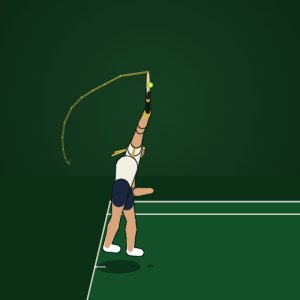
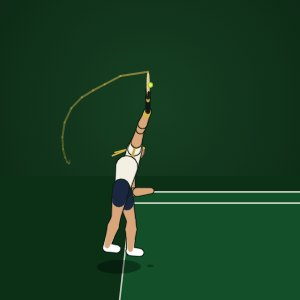
Sharpen serve: the lesson's captured toss, and a legal court (baseline in front of the feet)

Changed region(s): [[0.45, 0.63, 1.0, 0.72], [0.27, 0.66, 0.42, 1.0]]

diff --git a/app/catalog.js b/app/catalog.js
@@ -1,2 +1,2 @@
 window.GS_CATALOG={"daily":[{"slug":"serve-plus-one","title":"The Serve Writes the Next Question","line":"Read the reply your serve creates, then use the space.","sit":"Your wide serves have pulled this returner off the court twice. Watch both returns.","clips":["bh","fh","fhhi","fvhi","lowfv","ready","serveW"],"flavour":"tactics"},{"slug":"short-ball","title":"The Short Ball Is Not Permission","line":"Short isn't enough. Height, balance and their position earn the attack.","sit":"Their slice lands short and stays low. You come forward to it; they're still deep.","clips":["bh","bhlo","bv","fh","fhhi","fhlo","fvhi","ready"],"flavour":"tactics"},{"slug":"the-line","title":"The Line Must Be Earned","line":"The open line is tempting. When is it actually on?","sit":"The line is open, but their low crosscourt pulls you wide, and you're late.","clips":["bh","bhlo","fh","fhhi","ready"],"flavour":"tactics"},{"slug":"the-winner","title":"The Winner Can Be the Wrong Shot","line":"One winner proves little. See the same shot hit ten times.","sit":"Off a low, neutral ball, you go down the line and clip the paint. Winner.","clips":["bh","bhlo","fh","fhhi","fhlo","ready"],"flavour":"tactics"},{"slug":"recovery","title":"The Centre Is Not the Plan","line":"Where you recover decides whether you reach their reply.","sit":"Your deep crosscourt pushes them outside the sideline. You finish balanced.","clips":["bh","bhlo","fh","fhhi","ready"],"flavour":"tactics"},{"slug":"open-court","title":"The Open Court Is Not Always Open","line":"Play the defender’s movement, not the empty space.","sit":"You have a comfortable short forehand. Watch where the defender is running before you choose.","clips":["bh","bhlo","fh","fhlo","ready"],"flavour":"tactics"},{"slug":"forehand-bill","title":"Your Forehand Leaves a Bill","line":"A run-around forehand has to pay for the way back.","sit":"A deep ball to your backhand. They're balanced and could go either way.","clips":["bh","fh","fhhi","fhlo","ready"],"flavour":"tactics"},{"slug":"the-lead","title":"The Lead That Makes You Smaller","line":"Ahead? Keep the depth that built the lead.","sit":"You lead 5–2. Your rally ball has started landing shorter.","clips":["bh","bhlo","fh","fhhi","ready"],"flavour":"tactics"},{"slug":"split-step","title":"A Perfect Split Step Can Be Late","line":"Land for their hit, not before it.","sit":"You reach your spot. Watch the split step and your first move.","clips":["bhlo","fh","ready"],"flavour":"net"},{"slug":"approach-volley","title":"Your Approach Shapes Your First Volley","line":"A deep approach builds an easy volley.","sit":"You're balanced on a short forehand. Their recovery leaves the line open.","clips":["bh","bv","fh","lowfv","ready"],"flavour":"net"},{"slug":"middle-return","title":"The Return That Shrinks Serve +1","line":"Deep through the middle takes the server’s weapon away.","sit":"A big first serve pulls you wide. The server stays back for their next ball.","clips":["bh","bhlo","fh","fhhi","ready","serveT","serveW"],"flavour":"tactics"},{"slug":"high-ball","title":"One High Ball. Two Opposite Answers.","line":"Find the contact, not the height.","sit":"A slower, high ball lands short. You're balanced, with time to move.","clips":["bh","bhlo","fh","fhChest","fhHigh","fhHigher","fhhi","ready"],"flavour":"tactics"},{"slug":"second-serve","title":"The Safe Second Serve Trap","line":"In is only the beginning.","sit":"Both second serves go in. Watch where the receiver meets each one.","clips":["bhChest","bhHigh","bhHigher","bhlo","fh","fhHigh","fhHigher","fhhi","ready","serveB","serveW"],"flavour":"tactics"},{"slug":"contact-clue","title":"Two Misses. One Clue.","line":"Check the space at contact first.","sit":"Your forehand goes into the net. Watch it again, held at the moment you hit it.","clips":["fh","fhCramped","ready"],"flavour":"technique"},{"slug":"running-around","title":"Running Around Is Not Hiding","line":"Earn the forehand. Cover its cost.","sit":"Your slice has bought time. Your forehand is your stronger shot.","clips":["bh","bhSlice","bhlo","fh","fhCramped","fhhi","fhlo","ready"],"flavour":"tactics"},{"slug":"net-rusher","title":"Net Rusher: Feet or Over Them","line":"They come in. Where they stop decides: at their feet, or over them.","sit":"They approach and come in. They stop just inside the service line as you hit.","clips":["bh","bv","fh","fhhi","fvhi","lowfv","ready","sm"],"flavour":"opponents"},{"slug":"pass-where-they-arent","title":"Pass Where They Aren't","line":"At the net they cover one side. Pass the side they left.","sit":"They approach and close in, shading toward your down-the-line side.","clips":["bh","bv","fh","fvhi","ready"],"flavour":"net"},{"slug":"late-is-the-culprit","title":"Late Is the Culprit","line":"Same miss, same side? It tells you when you hit it.","sit":"You aim crosscourt, but your forehand flies wide to the right. Watch it again, held at contact.","clips":["bh","fh","ready"],"flavour":"technique"},{"slug":"the-moonballer","title":"The Moonballer: Take Their Time","line":"They loop it high and deep. Take their time, then take the net.","sit":"Another high, heavy ball comes to your forehand. At the baseline it will kick above your shoulder.","clips":["bh","bhlo","fh","fhChest","fhHigher","fhhi","ready","sm"],"flavour":"opponents"},{"slug":"the-pusher","title":"The Pusher: Change the Game","line":"They get everything back. Stop out-waiting them: change the game.","sit":"They're 2 m behind their baseline, looping everything back. This one lands short enough to step in on.","clips":["bhlo","bv","drop","fh","fvhi","lowfv","ready"],"flavour":"opponents"},{"slug":"pulled-wide","title":"Pulled Wide? Buy Time First","line":"Off the court? Buy time first, unless you got there early.","sit":"Their angle pulls you off the court. You reach it low and late; they're in the middle.","clips":["bh","bhlo","fh","fhhi","fhlo","ready"],"flavour":"tactics"},{"slug":"serve-away-from-the-lean","title":"Serve Away From the Lean","line":"The returner leans to cover one serve. Serve the side they left.","sit":"First serve from the deuce side. The returner has moved toward the T to protect their backhand.","clips":["bh","bhHigh","bhHigher","bhlo","fh","fhHigh","fhHigher","fhhi","fhlo","ready","serveB","serveT","serveW"],"flavour":"tactics"},{"slug":"the-big-hitter","title":"The Big Hitter: Time for You, Not Them","line":"Their ball comes fast and heavy. Win back your time; keep it out of their zone.","sit":"They hit big. Their crosscourt forehand is coming into your backhand corner at 125 km/h.","clips":["bh","bhSlice","bhlo","fh","fhlo","ready"],"flavour":"opponents"},{"slug":"the-lefty","title":"The Lefty: Find Their Backhand","line":"Your usual patterns land on a lefty's forehand. Turn them round.","sit":"They're left-handed. You've run around your backhand to hit a forehand.","clips":["bh","bhHigh","bhSlice","bhlo","fh","fhChest","fhHigh","fhlo","ready","serveB","serveT","serveW"],"flavour":"opponents"},{"slug":"find-your-return-spot","title":"Find Your Return Spot","line":"Back for the big first serve. In for the kick second serve.","sit":"They hit a big first serve, around 185 km/h, down the T.","clips":["bh","fh","fhChest","fhHigh","ready","serveT","serveW"],"flavour":"tactics"},{"slug":"answer-the-drop","title":"Answer the Drop","line":"You got to their drop. Where they go decides your answer.","sit":"They drop-shot you and stay mid-court, where they hit it. You get there in time.","clips":["fh","fvhi","lowfv","ready"],"flavour":"net"},{"slug":"attack-the-backhand","title":"Attack the Backhand the Long Way","line":"Their backhand is weak and they know it. Move them off it first.","sit":"Their backhand is the weak side, and they've started leaning toward it before you hit.","clips":["bh","bhlo","bv","fh","fhhi","ready"],"flavour":"tactics"},{"slug":"down-the-line","title":"When to Go Down the Line","line":"The line is about where they are, not how brave you are.","sit":"Their crosscourt lands short. You step in, set, and they're still getting back to the middle.","clips":["bh","bhlo","fh","fhhi","fhlo","ready"],"flavour":"tactics"},{"slug":"rushed-out-wide","title":"Rushed Out Wide","line":"Pulled wide? The big shot lands 6 in 10. Deep through the middle lands every time.","sit":"Their crosscourt pulls you off the court on your forehand side, and you only just get there.","clips":["bh","fh","fhhi","ready"],"flavour":"tactics"}],"predict":[{"slug":"predict-the-point","title":"Predict the Point: The Wide Serve Pattern","line":"Call the serve, the +1 and the finish. Then watch your point.","sit":"30-30, deuce court. They crowd the middle to protect their backhand.","clips":["bh","bhChest","bhlo","fh","fhChest","fhhi","fhlo","ready","serveB","serveT","serveW"],"flavour":"predict"},{"slug":"predict-second-serve","title":"Predict the Point: Break Point on a Second Serve","line":"Call the return, the approach and the volley. Then watch your point.","sit":"15-40. A slow second serve sits up on your forehand. The server stays back.","clips":["bh","bhlo","bv","fh","fhhi","ready","serveT"],"flavour":"predict"}],"play":[{"slug":"saturday-point-1","title":"Saturday Point #1","line":"One point, built from five of your lessons. Each shot: the one you want to hit, or the one that wins.","sit":"30-30, deuce court. The returner stands close to the middle to protect their backhand.","clips":["bh","bhlo","fh","fhChest","fhhi","fhlo","ready","serveT","serveW"],"flavour":"play","uses":["serve-plus-one","short-ball","open-court","the-line","the-winner"]},{"slug":"saturday-point-2","title":"Saturday Point #2","line":"A return game at 5-2, built from five more of your lessons. Each shot: the tempting one, or the one that wins.","sit":"You lead 5–2. Their serve: a big first serve, wide to your forehand.","clips":["bh","bhlo","bv","fh","fhhi","ready","serveW"],"flavour":"play","uses":["middle-return","the-lead","recovery","approach-volley","split-step"]},{"slug":"saturday-point-3","title":"Saturday Point #3","line":"Your serve at 30-40, built from five more of your lessons. Each shot: the tempting one, or the one that wins.","sit":"30–40. You missed your first serve.","clips":["bh","bhChest","bhHigher","bhSlice","bhlo","fh","fhCramped","fhHigher","fhhi","fvhi","lowfv","ready","serveB"],"flavour":"play","uses":["second-serve","high-ball","running-around","contact-clue","net-rusher"]},{"slug":"saturday-point-4","title":"Saturday Point #4: The Pusher","line":"One point against a pusher, built from five more of your lessons. Each shot: the tempting one, or the one that wins.","sit":"30–15. The returner has shaded wide to cover your wide serve.","clips":["bh","bhHigher","drop","fh","fhHigher","fhhi","fhlo","ready","serveT","serveW"],"flavour":"play","uses":["serve-away-from-the-lean","forehand-bill","pulled-wide","down-the-line","the-pusher"]},{"slug":"saturday-point-5","title":"Saturday Point #5: The Big Hitter","line":"Break point against a big hitter, built from five more of your lessons. Each shot: the tempting one, or the one that wins.","sit":"30–40, break point. Their big first serve is coming down the T.","clips":["bh","bhlo","fh","fhChest","fhHigher","fhhi","fhlo","fvhi","ready","serveT"],"flavour":"play","uses":["find-your-return-spot","the-big-hitter","attack-the-backhand","the-moonballer","answer-the-drop"]},{"slug":"midweek-point-1","title":"Midweek Point #1","line":"Three shots from three of your lessons. A quick top-up between Saturdays.","sit":"15–30. Their second serve is a high, heavy kick.","clips":["bh","bhlo","fh","fhChest","fhhi","ready","serveT"],"flavour":"play","uses":["find-your-return-spot","rushed-out-wide","down-the-line"]},{"slug":"play-the-point","title":"Play the Point","line":"Three shots, your calls. Each choice decides what happens next.","sit":"","clips":["bh","bhlo","fh","fhChest","fhhi","ready","serveT","serveW"],"flavour":"play"}],"flavours":[{"key":"tactics","name":"Court tactics","lessons":["serve-plus-one","short-ball","the-line","the-winner","recovery","open-court","forehand-bill","the-lead","middle-return","high-ball","second-serve","running-around","pulled-wide","serve-away-from-the-lean","find-your-return-spot","attack-the-backhand","down-the-line","rushed-out-wide"]},{"key":"opponents","name":"Opponents","lessons":["the-moonballer","the-pusher","net-rusher","the-big-hitter","the-lefty"]},{"key":"net","name":"Net play","lessons":["approach-volley","pass-where-they-arent","split-step","answer-the-drop"]},{"key":"technique","name":"Technique","lessons":["late-is-the-culprit","contact-clue"]},{"key":"predict","name":"Predict the Point","lessons":["predict-the-point","predict-second-serve"]},{"key":"play","name":"Play the Point","lessons":["saturday-point-1","saturday-point-2","saturday-point-3","saturday-point-4","saturday-point-5","midweek-point-1","play-the-point"]}]};
-window.GS_VERSION="f00b689823";
+window.GS_VERSION="8112fd55d7";

diff --git a/app/athlete.js b/app/athlete.js
@@ -190,30 +190,28 @@ function at(c,f){
   const pose=A.map((p,k)=>lerp3(p,B[k],u)), axis=norm(lerp3(RA.axis,RB.axis,u)), lat=lerp3(RA.lateral,RB.lateral,u);
   return {pose,rq:{w:pose[I.wristR],axis,lateral:norm(sub(lat,mul(axis,dot(lat,axis)))),centre:lerp3(RA.centre,RB.centre,u)}};
 }
-/* the ball (8 Oct, Eoin: "the serve omits the visible ball in the toss"): simple flights under gravity, metres and
-   seconds, 100 frames a second.
-   Serve: in the tossing hand from the first frame, released at the hand's highest point, up and down onto the contact.
+/* the ball (8 Oct, Eoin: "the serve omits the visible ball in the toss"; "the toss should mimic the gold standard,
+   The Serve Writes the Next Question"). Metres and seconds, 100 frames a second.
+   Serve: the lesson's own toss. TOSS is the captured serve's solved toss (the serve clip's ball, frames 73 to contact:
+   released from the left hand at 1.34 m, up to 3.47 m, 1.08 s, onto the measured contact), copied from the lab clip so
+   it matches the lesson ball for ball; before release the ball is in the tossing hand.
    Groundstrokes: their ball crosses the net, bounces 4.5 m in front of you and rises to the contact.
    Volleys: met in the air. After contact the ball flies on over the net (and the serve lands in the box) until the
    swing ends, so it never vanishes while the racquet is still moving. */
-const G=9.81, GROUND=new Set(["fh","bh","slice","drop"]), REL={};
+const TOSS_FROM=73, TOSS=[[0.209,0.13,1.34],[0.207,0.133,1.406],[0.204,0.136,1.47],[0.202,0.139,1.534],[0.199,0.142,1.596],[0.197,0.145,1.657],[0.194,0.148,1.717],[0.192,0.152,1.776],[0.189,0.155,1.834],[0.187,0.158,1.891],[0.184,0.161,1.947],[0.182,0.164,2.002],[0.179,0.167,2.056],[0.177,0.17,2.109],[0.174,0.173,2.161],[0.172,0.176,2.212],[0.169,0.179,2.261],[0.167,0.183,2.31],[0.164,0.186,2.358],[0.162,0.189,2.405],[0.159,0.192,2.45],[0.157,0.195,2.495],[0.154,0.198,2.539],[0.152,0.201,2.581],[0.149,0.204,2.623],[0.147,0.207,2.663],[0.144,0.21,2.703],[0.142,0.213,2.742],[0.14,0.216,2.779],[0.137,0.219,2.816],[0.135,0.223,2.851],[0.132,0.226,2.886],[0.13,0.229,2.92],[0.127,0.232,2.952],[0.125,0.235,2.984],[0.122,0.238,3.014],[0.12,0.241,3.044],[0.117,0.244,3.072],[0.115,0.247,3.1],[0.113,0.25,3.127],[0.11,0.253,3.152],[0.108,0.256,3.177],[0.105,0.259,3.2],[0.103,0.262,3.223],[0.1,0.265,3.245],[0.098,0.268,3.265],[0.096,0.271,3.285],[0.093,0.274,3.304],[0.091,0.277,3.321],[0.088,0.28,3.338],[0.086,0.283,3.354],[0.083,0.286,3.369],[0.081,0.289,3.382],[0.078,0.292,3.395],[0.076,0.295,3.407],[0.073,0.298,3.418],[0.071,0.301,3.428],[0.069,0.304,3.436],[0.066,0.307,3.444],[0.064,0.31,3.451],[0.061,0.314,3.457],[0.059,0.317,3.462],[0.057,0.32,3.466],[0.054,0.323,3.469],[0.052,0.326,3.471],[0.049,0.329,3.472],[0.047,0.332,3.472],[0.044,0.335,3.471],[0.042,0.338,3.469],[0.04,0.341,3.466],[0.037,0.344,3.462],[0.035,0.347,3.457],[0.032,0.35,3.451],[0.03,0.353,3.444],[0.027,0.356,3.437],[0.025,0.359,3.428],[0.022,0.362,3.418],[0.02,0.365,3.407],[0.018,0.368,3.395],[0.015,0.371,3.383],[0.013,0.374,3.369],[0.01,0.377,3.354],[0.008,0.38,3.339],[0.005,0.383,3.322],[0.003,0.386,3.304],[0.001,0.389,3.286],[-0.002,0.392,3.266],[-0.004,0.395,3.246],[-0.007,0.398,3.224],[-0.009,0.401,3.202],[-0.011,0.404,3.178],[-0.014,0.407,3.154],[-0.016,0.41,3.129],[-0.019,0.413,3.102],[-0.021,0.416,3.075],[-0.024,0.419,3.047],[-0.026,0.422,3.018],[-0.028,0.425,2.987],[-0.031,0.428,2.956],[-0.033,0.431,2.924],[-0.036,0.434,2.891],[-0.038,0.437,2.857],[-0.04,0.44,2.822],[-0.043,0.443,2.786],[-0.045,0.446,2.749],[-0.048,0.449,2.711],[-0.05,0.452,2.672],[-0.052,0.455,2.632],[-0.055,0.458,2.646]];
+const G=9.81, GROUND=new Set(["fh","bh","slice","drop"]);
 function fall(p,v,t){return [p[0]+v[0]*t,p[1]+v[1]*t,p[2]+v[2]*t-G/2*t*t];}
 function bounced(p,v,t){   /* one bounce if it reaches the ground (70% of the vertical speed back) */
   const tg=(v[2]+Math.sqrt(v[2]*v[2]+2*G*p[2]))/G; if(t<=tg) return fall(p,v,t);
   const q=fall(p,v,tg); return fall([q[0],q[1],0],[v[0],v[1],0.7*(G*tg-v[2])],t-tg);}
-function release(c){   /* the tossing hand's highest point before contact */
-  if(REL[c.contactFrame+"/"+c.frameCount]) return REL[c.contactFrame+"/"+c.frameCount];
-  let best=1,bz=-1; for(let f=1;f<c.contactFrame-25;f++){const z=c.frames[f-1][I.wristL][2]; if(z>bz){bz=z;best=f;}}
-  return REL[c.contactFrame+"/"+c.frameCount]=best;}
 const OUT={fh:[0,25,1.55],bh:[0,25,1.45],slice:[0,22,1.15],drop:[0,14,1.1],fv:[0,18,1.2],bv:[0,18,1.2]};   /* forward speed m/s, height crossing the net */
 function ballAt(k,c,f){
   const C=c.contactBall, cf=c.contactFrame, t=(f-cf)/100;
   if(k==="serve"){
     if(f>=cf){const T=0.4, v=[0.3,16.5/T,(-C[2]+G/2*T*T)/T]; return bounced(C,v,t);}   /* lands about 16.5 m on, inside the service line */
-    const r=release(c), hand=g=>{const w=at(c,g).pose[I.wristL];return [w[0],w[1],w[2]+0.07];};
-    if(f<=r) return hand(f);
-    const p0=hand(r), T=(cf-r)/100, tt=(f-r)/100;
-    return [lerp(p0[0],C[0],tt/T),lerp(p0[1],C[1],tt/T),p0[2]+((C[2]-p0[2]+G/2*T*T)/T)*tt-G/2*tt*tt];}
+    if(f<TOSS_FROM) return at(c,f).pose[I.wristL];                                     /* in the tossing hand */
+    const i=Math.min(TOSS.length-1,Math.floor(f-TOSS_FROM)), u=f-TOSS_FROM-i, a=TOSS[i], b=TOSS[Math.min(TOSS.length-1,i+1)];
+    return lerp3(a,b,u);}
   if(f<cf){
     if(GROUND.has(k)){const tb=0.18, B=[C[0]-0.25,C[1]+4.5,0];
       if(-t<=tb){const vz=(C[2]+G/2*tb*tb)/tb, s=(t+tb)/tb; return [lerp(B[0],C[0],s),lerp(B[1],C[1],s),vz*(t+tb)-G/2*(t+tb)*(t+tb)];}
@@ -225,19 +223,24 @@ function ballAt(k,c,f){
   const [vx,vy,hn]=OUT[k], T=Math.max(0.2,(11.5-C[1])/vy);    /* over the net at height hn */
   return bounced(C,[vx+(k==="bh"||k==="slice"||k==="bv"?-0.6:0.6),vy,(hn-C[2]+G/2*T*T)/T],t);
 }
-const BL=-0.35, SL=4.115, DL=5.485, NET=BL+11.885;   /* court around the player: baseline just behind them */
+const SL=4.115, DL=5.485;
+/* the court around the player. Rallying strokes: the baseline just behind them. The serve: placed as the lesson places
+   the captured serve (courtOffset [1.2, -11.95]): the baseline 6.5 cm in front of the clip's origin and the centre mark
+   1.2 m to the left, so the feet start behind the line and cross it only in the air, after contact. No foot fault. */
+let BL=-0.35, DX=0, NET=BL+11.885;
+function courtFor(k){BL=k==="serve"?0.065:-0.35; DX=k==="serve"?-1.2:0; NET=BL+11.885;}
 function court(g){
   quad(g,[[-9,-4,0],[9,-4,0],[9,NET+3,0],[-9,NET+3,0]],"#0b3016");
-  quad(g,[[-DL,BL,0],[DL,BL,0],[DL,NET,0],[-DL,NET,0]],"#13502a");
-  const ln=(a,b)=>seg(g,[a[0],a[1],0],[b[0],b[1],0],"rgba(240,236,227,.8)",1.6);
+  quad(g,[[-DL+DX,BL,0],[DL+DX,BL,0],[DL+DX,NET,0],[-DL+DX,NET,0]],"#13502a");
+  const ln=(a,b)=>seg(g,[a[0]+DX,a[1],0],[b[0]+DX,b[1],0],"rgba(240,236,227,.8)",1.6);
   ln([-DL,BL],[DL,BL]);ln([-DL,BL],[-DL,NET]);ln([DL,BL],[DL,NET]);ln([-SL,BL],[-SL,NET]);ln([SL,BL],[SL,NET]);
   ln([-SL,NET-6.4],[SL,NET-6.4]);ln([0,NET-6.4],[0,NET]);ln([0,BL],[0,BL+.15]);
-  const W=DL+.9,top=[[-W,NET,1.07],[0,NET,.914],[W,NET,1.07]];
-  quad(g,[[-W,NET,0],[W,NET,0],top[2],top[1],top[0]],"rgba(4,10,6,.45)");
+  const W=DL+.9,top=[[-W+DX,NET,1.07],[DX,NET,.914],[W+DX,NET,1.07]];
+  quad(g,[[-W+DX,NET,0],[W+DX,NET,0],top[2],top[1],top[0]],"rgba(4,10,6,.45)");
   seg(g,top[0],top[1],"rgba(240,236,227,.85)",2);seg(g,top[1],top[2],"rgba(240,236,227,.85)",2);
 }
 function draw(svg,k,c,f){
-  const g=document.createDocumentFragment(); court(g);
+  const g=document.createDocumentFragment(); courtFor(k); court(g);
   const s=at(c,f), A=s.pose[I.ankleL], B=s.pose[I.ankleR];
   ring(g,[(A[0]+B[0])/2,(A[1]+B[1])/2,.004],.42,.32,"none",0,1,"rgba(0,0,0,.35)");
   const parts=[]; drawFigure(parts,s.pose,s.rq,{kit:KIT_PREM,fwd:[0,1,0],band:"#d9b24a",bandDk:"#8f7632"});   // the premium kit, as in the lessons

diff --git a/app_src/athlete.js b/app_src/athlete.js
@@ -17,30 +17,28 @@ function at(c,f){
   const pose=A.map((p,k)=>lerp3(p,B[k],u)), axis=norm(lerp3(RA.axis,RB.axis,u)), lat=lerp3(RA.lateral,RB.lateral,u);
   return {pose,rq:{w:pose[I.wristR],axis,lateral:norm(sub(lat,mul(axis,dot(lat,axis)))),centre:lerp3(RA.centre,RB.centre,u)}};
 }
-/* the ball (8 Oct, Eoin: "the serve omits the visible ball in the toss"): simple flights under gravity, metres and
-   seconds, 100 frames a second.
-   Serve: in the tossing hand from the first frame, released at the hand's highest point, up and down onto the contact.
+/* the ball (8 Oct, Eoin: "the serve omits the visible ball in the toss"; "the toss should mimic the gold standard,
+   The Serve Writes the Next Question"). Metres and seconds, 100 frames a second.
+   Serve: the lesson's own toss. TOSS is the captured serve's solved toss (the serve clip's ball, frames 73 to contact:
+   released from the left hand at 1.34 m, up to 3.47 m, 1.08 s, onto the measured contact), copied from the lab clip so
+   it matches the lesson ball for ball; before release the ball is in the tossing hand.
    Groundstrokes: their ball crosses the net, bounces 4.5 m in front of you and rises to the contact.
    Volleys: met in the air. After contact the ball flies on over the net (and the serve lands in the box) until the
    swing ends, so it never vanishes while the racquet is still moving. */
-const G=9.81, GROUND=new Set(["fh","bh","slice","drop"]), REL={};
+const TOSS_FROM=73, TOSS=[[0.209,0.13,1.34],[0.207,0.133,1.406],[0.204,0.136,1.47],[0.202,0.139,1.534],[0.199,0.142,1.596],[0.197,0.145,1.657],[0.194,0.148,1.717],[0.192,0.152,1.776],[0.189,0.155,1.834],[0.187,0.158,1.891],[0.184,0.161,1.947],[0.182,0.164,2.002],[0.179,0.167,2.056],[0.177,0.17,2.109],[0.174,0.173,2.161],[0.172,0.176,2.212],[0.169,0.179,2.261],[0.167,0.183,2.31],[0.164,0.186,2.358],[0.162,0.189,2.405],[0.159,0.192,2.45],[0.157,0.195,2.495],[0.154,0.198,2.539],[0.152,0.201,2.581],[0.149,0.204,2.623],[0.147,0.207,2.663],[0.144,0.21,2.703],[0.142,0.213,2.742],[0.14,0.216,2.779],[0.137,0.219,2.816],[0.135,0.223,2.851],[0.132,0.226,2.886],[0.13,0.229,2.92],[0.127,0.232,2.952],[0.125,0.235,2.984],[0.122,0.238,3.014],[0.12,0.241,3.044],[0.117,0.244,3.072],[0.115,0.247,3.1],[0.113,0.25,3.127],[0.11,0.253,3.152],[0.108,0.256,3.177],[0.105,0.259,3.2],[0.103,0.262,3.223],[0.1,0.265,3.245],[0.098,0.268,3.265],[0.096,0.271,3.285],[0.093,0.274,3.304],[0.091,0.277,3.321],[0.088,0.28,3.338],[0.086,0.283,3.354],[0.083,0.286,3.369],[0.081,0.289,3.382],[0.078,0.292,3.395],[0.076,0.295,3.407],[0.073,0.298,3.418],[0.071,0.301,3.428],[0.069,0.304,3.436],[0.066,0.307,3.444],[0.064,0.31,3.451],[0.061,0.314,3.457],[0.059,0.317,3.462],[0.057,0.32,3.466],[0.054,0.323,3.469],[0.052,0.326,3.471],[0.049,0.329,3.472],[0.047,0.332,3.472],[0.044,0.335,3.471],[0.042,0.338,3.469],[0.04,0.341,3.466],[0.037,0.344,3.462],[0.035,0.347,3.457],[0.032,0.35,3.451],[0.03,0.353,3.444],[0.027,0.356,3.437],[0.025,0.359,3.428],[0.022,0.362,3.418],[0.02,0.365,3.407],[0.018,0.368,3.395],[0.015,0.371,3.383],[0.013,0.374,3.369],[0.01,0.377,3.354],[0.008,0.38,3.339],[0.005,0.383,3.322],[0.003,0.386,3.304],[0.001,0.389,3.286],[-0.002,0.392,3.266],[-0.004,0.395,3.246],[-0.007,0.398,3.224],[-0.009,0.401,3.202],[-0.011,0.404,3.178],[-0.014,0.407,3.154],[-0.016,0.41,3.129],[-0.019,0.413,3.102],[-0.021,0.416,3.075],[-0.024,0.419,3.047],[-0.026,0.422,3.018],[-0.028,0.425,2.987],[-0.031,0.428,2.956],[-0.033,0.431,2.924],[-0.036,0.434,2.891],[-0.038,0.437,2.857],[-0.04,0.44,2.822],[-0.043,0.443,2.786],[-0.045,0.446,2.749],[-0.048,0.449,2.711],[-0.05,0.452,2.672],[-0.052,0.455,2.632],[-0.055,0.458,2.646]];
+const G=9.81, GROUND=new Set(["fh","bh","slice","drop"]);
 function fall(p,v,t){return [p[0]+v[0]*t,p[1]+v[1]*t,p[2]+v[2]*t-G/2*t*t];}
 function bounced(p,v,t){   /* one bounce if it reaches the ground (70% of the vertical speed back) */
   const tg=(v[2]+Math.sqrt(v[2]*v[2]+2*G*p[2]))/G; if(t<=tg) return fall(p,v,t);
   const q=fall(p,v,tg); return fall([q[0],q[1],0],[v[0],v[1],0.7*(G*tg-v[2])],t-tg);}
-function release(c){   /* the tossing hand's highest point before contact */
-  if(REL[c.contactFrame+"/"+c.frameCount]) return REL[c.contactFrame+"/"+c.frameCount];
-  let best=1,bz=-1; for(let f=1;f<c.contactFrame-25;f++){const z=c.frames[f-1][I.wristL][2]; if(z>bz){bz=z;best=f;}}
-  return REL[c.contactFrame+"/"+c.frameCount]=best;}
 const OUT={fh:[0,25,1.55],bh:[0,25,1.45],slice:[0,22,1.15],drop:[0,14,1.1],fv:[0,18,1.2],bv:[0,18,1.2]};   /* forward speed m/s, height crossing the net */
 function ballAt(k,c,f){
   const C=c.contactBall, cf=c.contactFrame, t=(f-cf)/100;
   if(k==="serve"){
     if(f>=cf){const T=0.4, v=[0.3,16.5/T,(-C[2]+G/2*T*T)/T]; return bounced(C,v,t);}   /* lands about 16.5 m on, inside the service line */
-    const r=release(c), hand=g=>{const w=at(c,g).pose[I.wristL];return [w[0],w[1],w[2]+0.07];};
-    if(f<=r) return hand(f);
-    const p0=hand(r), T=(cf-r)/100, tt=(f-r)/100;
-    return [lerp(p0[0],C[0],tt/T),lerp(p0[1],C[1],tt/T),p0[2]+((C[2]-p0[2]+G/2*T*T)/T)*tt-G/2*tt*tt];}
+    if(f<TOSS_FROM) return at(c,f).pose[I.wristL];                                     /* in the tossing hand */
+    const i=Math.min(TOSS.length-1,Math.floor(f-TOSS_FROM)), u=f-TOSS_FROM-i, a=TOSS[i], b=TOSS[Math.min(TOSS.length-1,i+1)];
+    return lerp3(a,b,u);}
   if(f<cf){
     if(GROUND.has(k)){const tb=0.18, B=[C[0]-0.25,C[1]+4.5,0];
       if(-t<=tb){const vz=(C[2]+G/2*tb*tb)/tb, s=(t+tb)/tb; return [lerp(B[0],C[0],s),lerp(B[1],C[1],s),vz*(t+tb)-G/2*(t+tb)*(t+tb)];}
@@ -52,19 +50,24 @@ function ballAt(k,c,f){
   const [vx,vy,hn]=OUT[k], T=Math.max(0.2,(11.5-C[1])/vy);    /* over the net at height hn */
   return bounced(C,[vx+(k==="bh"||k==="slice"||k==="bv"?-0.6:0.6),vy,(hn-C[2]+G/2*T*T)/T],t);
 }
-const BL=-0.35, SL=4.115, DL=5.485, NET=BL+11.885;   /* court around the player: baseline just behind them */
+const SL=4.115, DL=5.485;
+/* the court around the player. Rallying strokes: the baseline just behind them. The serve: placed as the lesson places
+   the captured serve (courtOffset [1.2, -11.95]): the baseline 6.5 cm in front of the clip's origin and the centre mark
+   1.2 m to the left, so the feet start behind the line and cross it only in the air, after contact. No foot fault. */
+let BL=-0.35, DX=0, NET=BL+11.885;
+function courtFor(k){BL=k==="serve"?0.065:-0.35; DX=k==="serve"?-1.2:0; NET=BL+11.885;}
 function court(g){
   quad(g,[[-9,-4,0],[9,-4,0],[9,NET+3,0],[-9,NET+3,0]],"#0b3016");
-  quad(g,[[-DL,BL,0],[DL,BL,0],[DL,NET,0],[-DL,NET,0]],"#13502a");
-  const ln=(a,b)=>seg(g,[a[0],a[1],0],[b[0],b[1],0],"rgba(240,236,227,.8)",1.6);
+  quad(g,[[-DL+DX,BL,0],[DL+DX,BL,0],[DL+DX,NET,0],[-DL+DX,NET,0]],"#13502a");
+  const ln=(a,b)=>seg(g,[a[0]+DX,a[1],0],[b[0]+DX,b[1],0],"rgba(240,236,227,.8)",1.6);
   ln([-DL,BL],[DL,BL]);ln([-DL,BL],[-DL,NET]);ln([DL,BL],[DL,NET]);ln([-SL,BL],[-SL,NET]);ln([SL,BL],[SL,NET]);
   ln([-SL,NET-6.4],[SL,NET-6.4]);ln([0,NET-6.4],[0,NET]);ln([0,BL],[0,BL+.15]);
-  const W=DL+.9,top=[[-W,NET,1.07],[0,NET,.914],[W,NET,1.07]];
-  quad(g,[[-W,NET,0],[W,NET,0],top[2],top[1],top[0]],"rgba(4,10,6,.45)");
+  const W=DL+.9,top=[[-W+DX,NET,1.07],[DX,NET,.914],[W+DX,NET,1.07]];
+  quad(g,[[-W+DX,NET,0],[W+DX,NET,0],top[2],top[1],top[0]],"rgba(4,10,6,.45)");
   seg(g,top[0],top[1],"rgba(240,236,227,.85)",2);seg(g,top[1],top[2],"rgba(240,236,227,.85)",2);
 }
 function draw(svg,k,c,f){
-  const g=document.createDocumentFragment(); court(g);
+  const g=document.createDocumentFragment(); courtFor(k); court(g);
   const s=at(c,f), A=s.pose[I.ankleL], B=s.pose[I.ankleR];
   ring(g,[(A[0]+B[0])/2,(A[1]+B[1])/2,.004],.42,.32,"none",0,1,"rgba(0,0,0,.35)");
   const parts=[]; drawFigure(parts,s.pose,s.rq,{kit:KIT_PREM,fwd:[0,1,0],band:"#d9b24a",bandDk:"#8f7632"});   // the premium kit, as in the lessons

diff --git a/app/index.html b/app/index.html
@@ -898,10 +898,10 @@ body.cine-on .foot{position:relative;z-index:2;opacity:.6}
 <div class="gs-main"><header class="gs-hero gs-hero-header"><a class="gs-hero-wordmark" href="./?home=1" aria-label="GameSharp home"><div class="gs-hero-logo home-logo">GAME<span>SHARP</span></div><div class="gs-hero-beside">See the game<br>differently</div></a><div class="gs-hero-botrow"><div class="gs-hero-slogan">See clearer. Think sharper.</div><div class="gs-hero-streak-wrap"><div class="gs-streak-chip" id="streak"></div></div><button class="gs-home-profile" id="profile" aria-label="Player level" type="button">👤</button></div></header>
 <main id="main" tabindex="-1"></main><p class="foot">We use a random browser ID to measure app opens, lesson activity and feedback. Please keep personal details out of comments.</p><div class="log" id="log"></div></div>
 <nav class="gs-bottom-nav" aria-label="Main navigation"><a class="gs-bnav-item" href="./?home=1" data-nav="Home" aria-label="Home"><svg class="gs-bnav-icon" viewBox="0 0 24 24" fill="none" stroke="currentColor" stroke-width="2" aria-hidden="true"><path d="M3 9l9-7 9 7v11H3z"/><path d="M9 22V12h6v10"/></svg><span>Home</span></a><a class="gs-bnav-item" href="?review=1" data-nav="Sharpen" aria-label="Sharpen"><svg class="gs-bnav-icon" viewBox="0 0 24 24" fill="none" stroke="currentColor" stroke-width="2" aria-hidden="true"><path d="M2 17l6-6 5 5 9-9M16 7h6v6"/></svg><span>Sharpen</span></a><a class="gs-bnav-item" href="?all=1" data-nav="Explore" aria-label="Explore"><svg class="gs-bnav-icon" viewBox="0 0 24 24" fill="none" stroke="currentColor" stroke-width="2" aria-hidden="true"><circle cx="12" cy="12" r="10"/><path d="M16 8l-3 5-5 3 3-5z"/></svg><span>Explore</span></a></nav></div>
-<script src="config.js?v=f00b689823"></script><script src="catalog.js?v=f00b689823"></script><script src="app.js?v=f00b689823"></script>
-<script src="sharpen.js?v=f00b689823"></script>
-<script src="sfx.js?v=f00b689823"></script>
-<script src="cine.js?v=f00b689823"></script>
+<script src="config.js?v=8112fd55d7"></script><script src="catalog.js?v=8112fd55d7"></script><script src="app.js?v=8112fd55d7"></script>
+<script src="sharpen.js?v=8112fd55d7"></script>
+<script src="sfx.js?v=8112fd55d7"></script>
+<script src="cine.js?v=8112fd55d7"></script>
 <script>
 (function(){
 const A=GSApp,S=A.S,$=id=>document.getElementById(id),q=new URLSearchParams(location.search),ALL=q.has("all"),REVIEW=q.has("review");

diff --git a/app/play.html b/app/play.html
@@ -337,13 +337,13 @@ details.note a{color:var(--gold)}
   w.className=m; w.dataset.t0=performance.now(); w.hidden=false;
 })();
 </script>
-<script src="config.js?v=f00b689823"></script>
-<script src="catalog.js?v=f00b689823"></script>
-<script src="app.js?v=f00b689823"></script>
-<script src="sfx.js?v=f00b689823"></script>
+<script src="config.js?v=8112fd55d7"></script>
+<script src="catalog.js?v=8112fd55d7"></script>
+<script src="app.js?v=8112fd55d7"></script>
+<script src="sfx.js?v=8112fd55d7"></script>
 <script>
 (function(){
-const A=GSApp, V="f00b689823", slug=new URLSearchParams(location.search).get("l"), L=A.bySlug(slug), ld=document.getElementById("loading");
+const A=GSApp, V="8112fd55d7", slug=new URLSearchParams(location.search).get("l"), L=A.bySlug(slug), ld=document.getElementById("loading");
 if(!L){location.replace("./?home=1");return;}
 window.GS_HOME_URL="./?home=1";   /* Home never auto-starts a lesson when you come back from one */
 const QS=new URLSearchParams(location.search);
